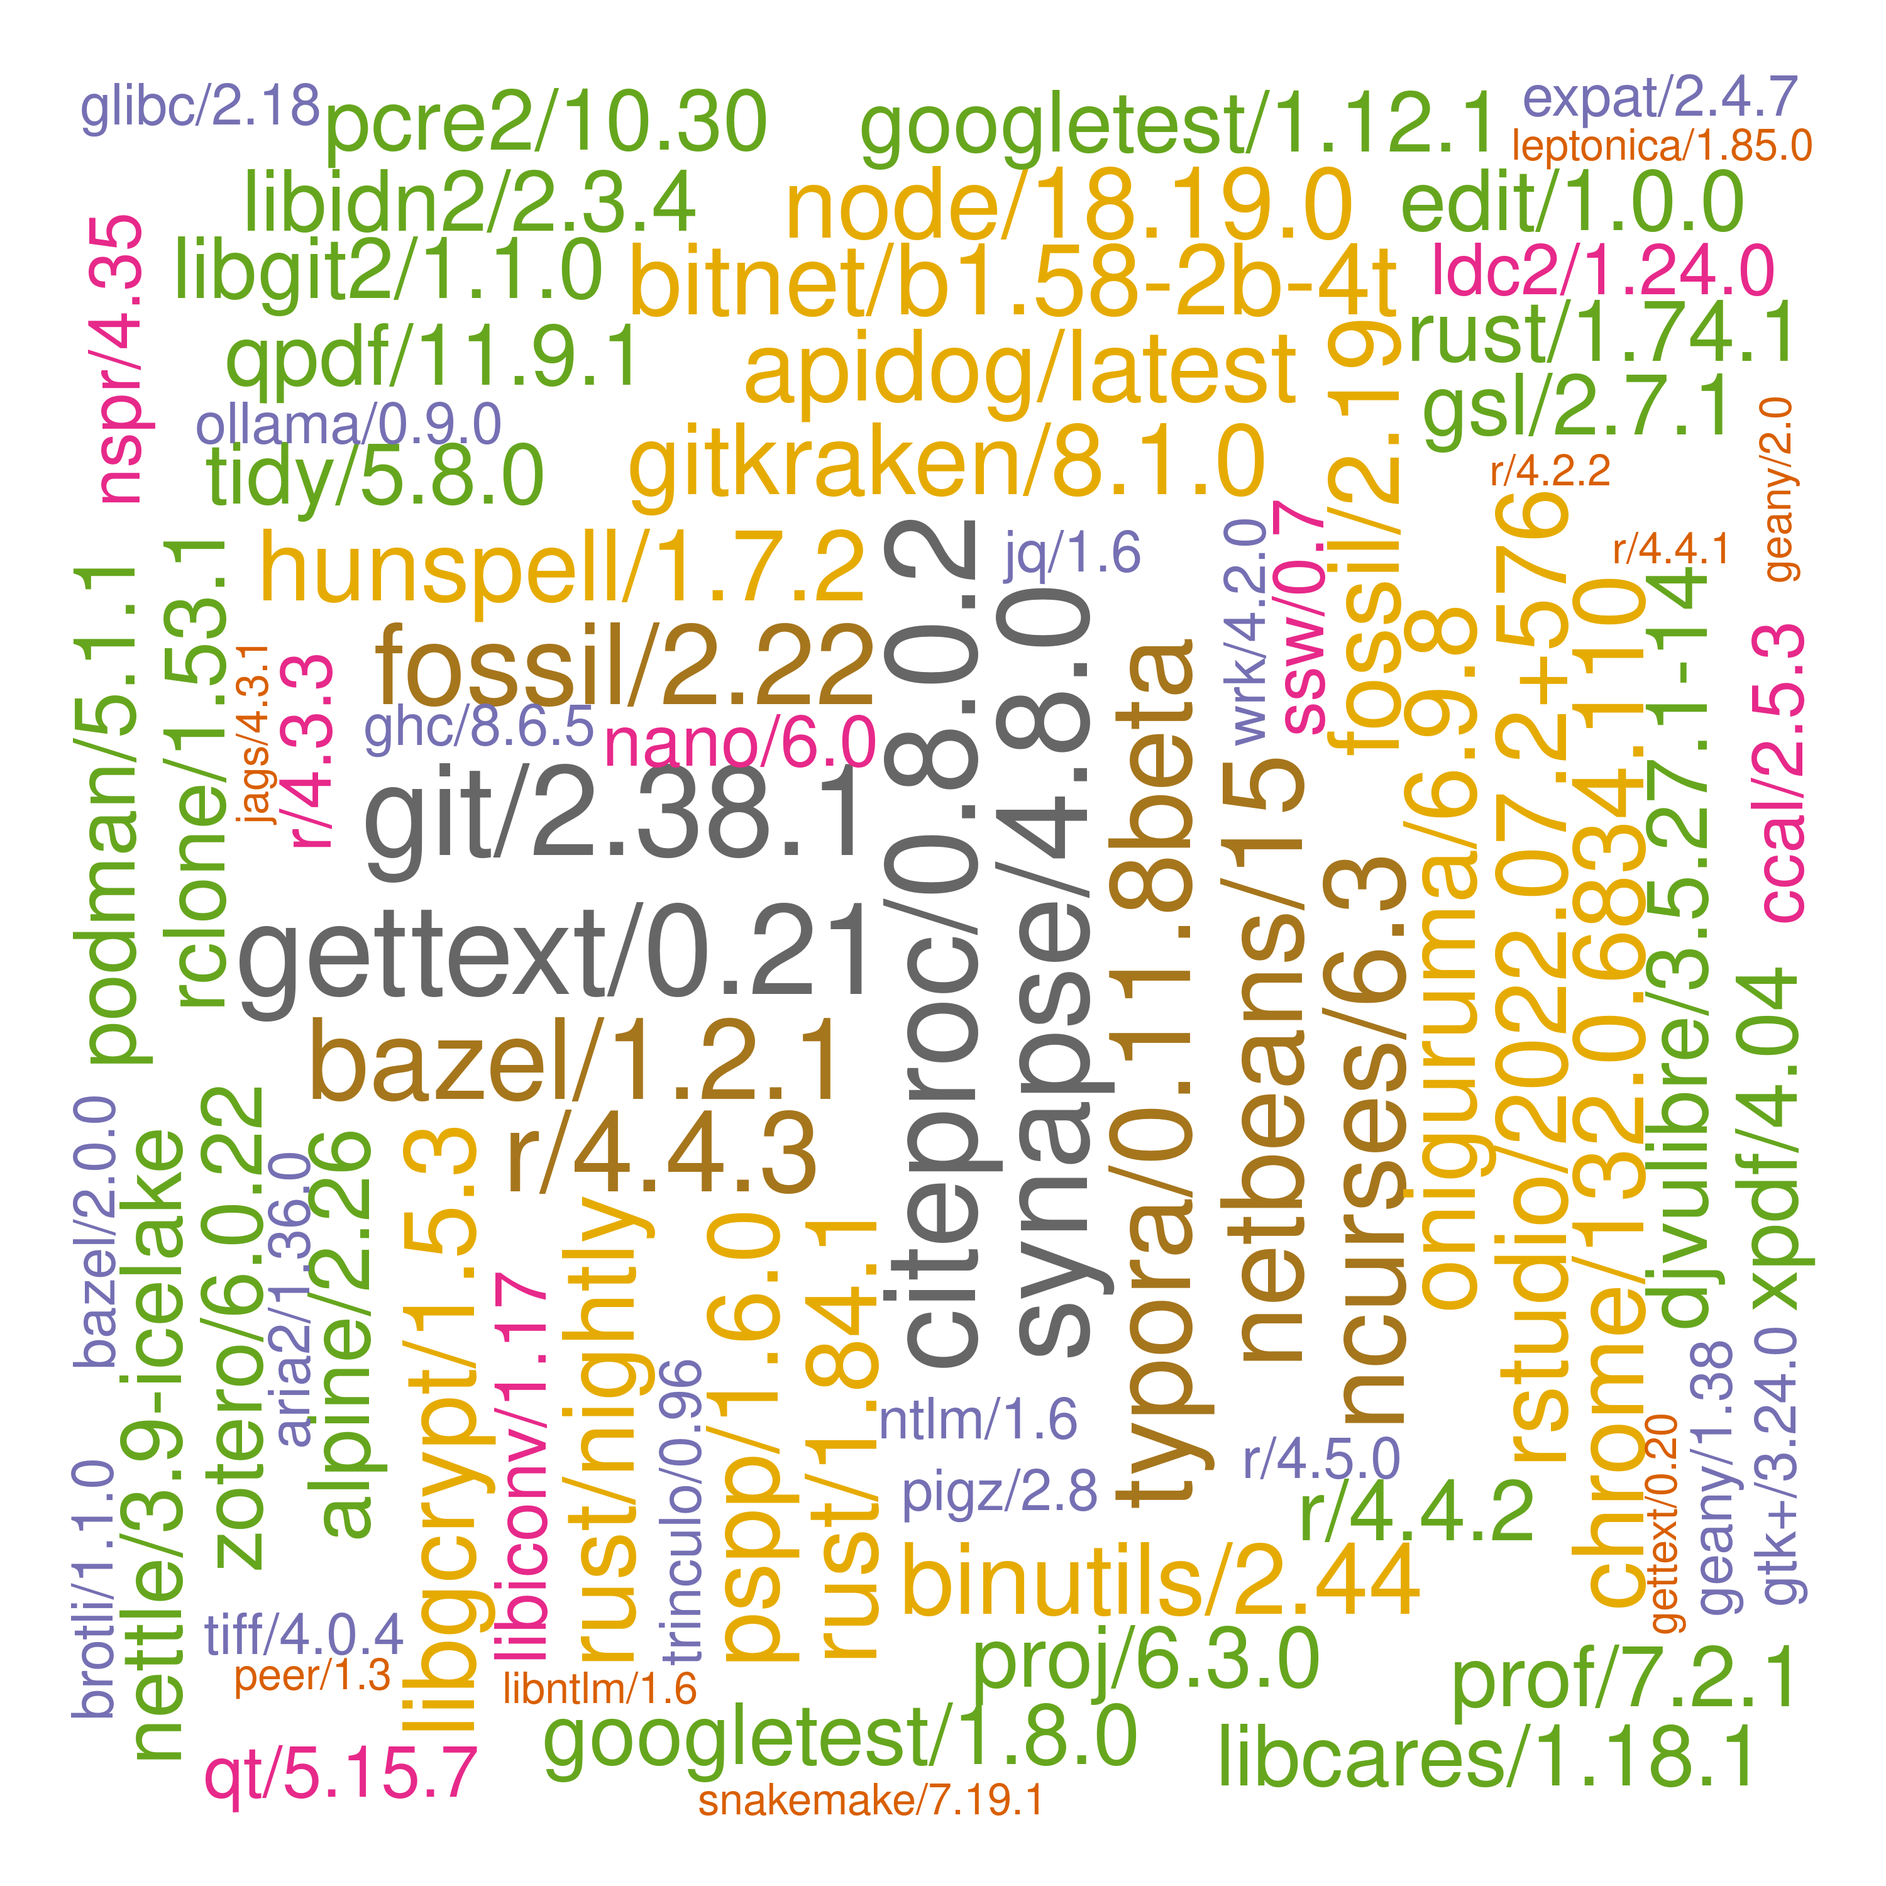
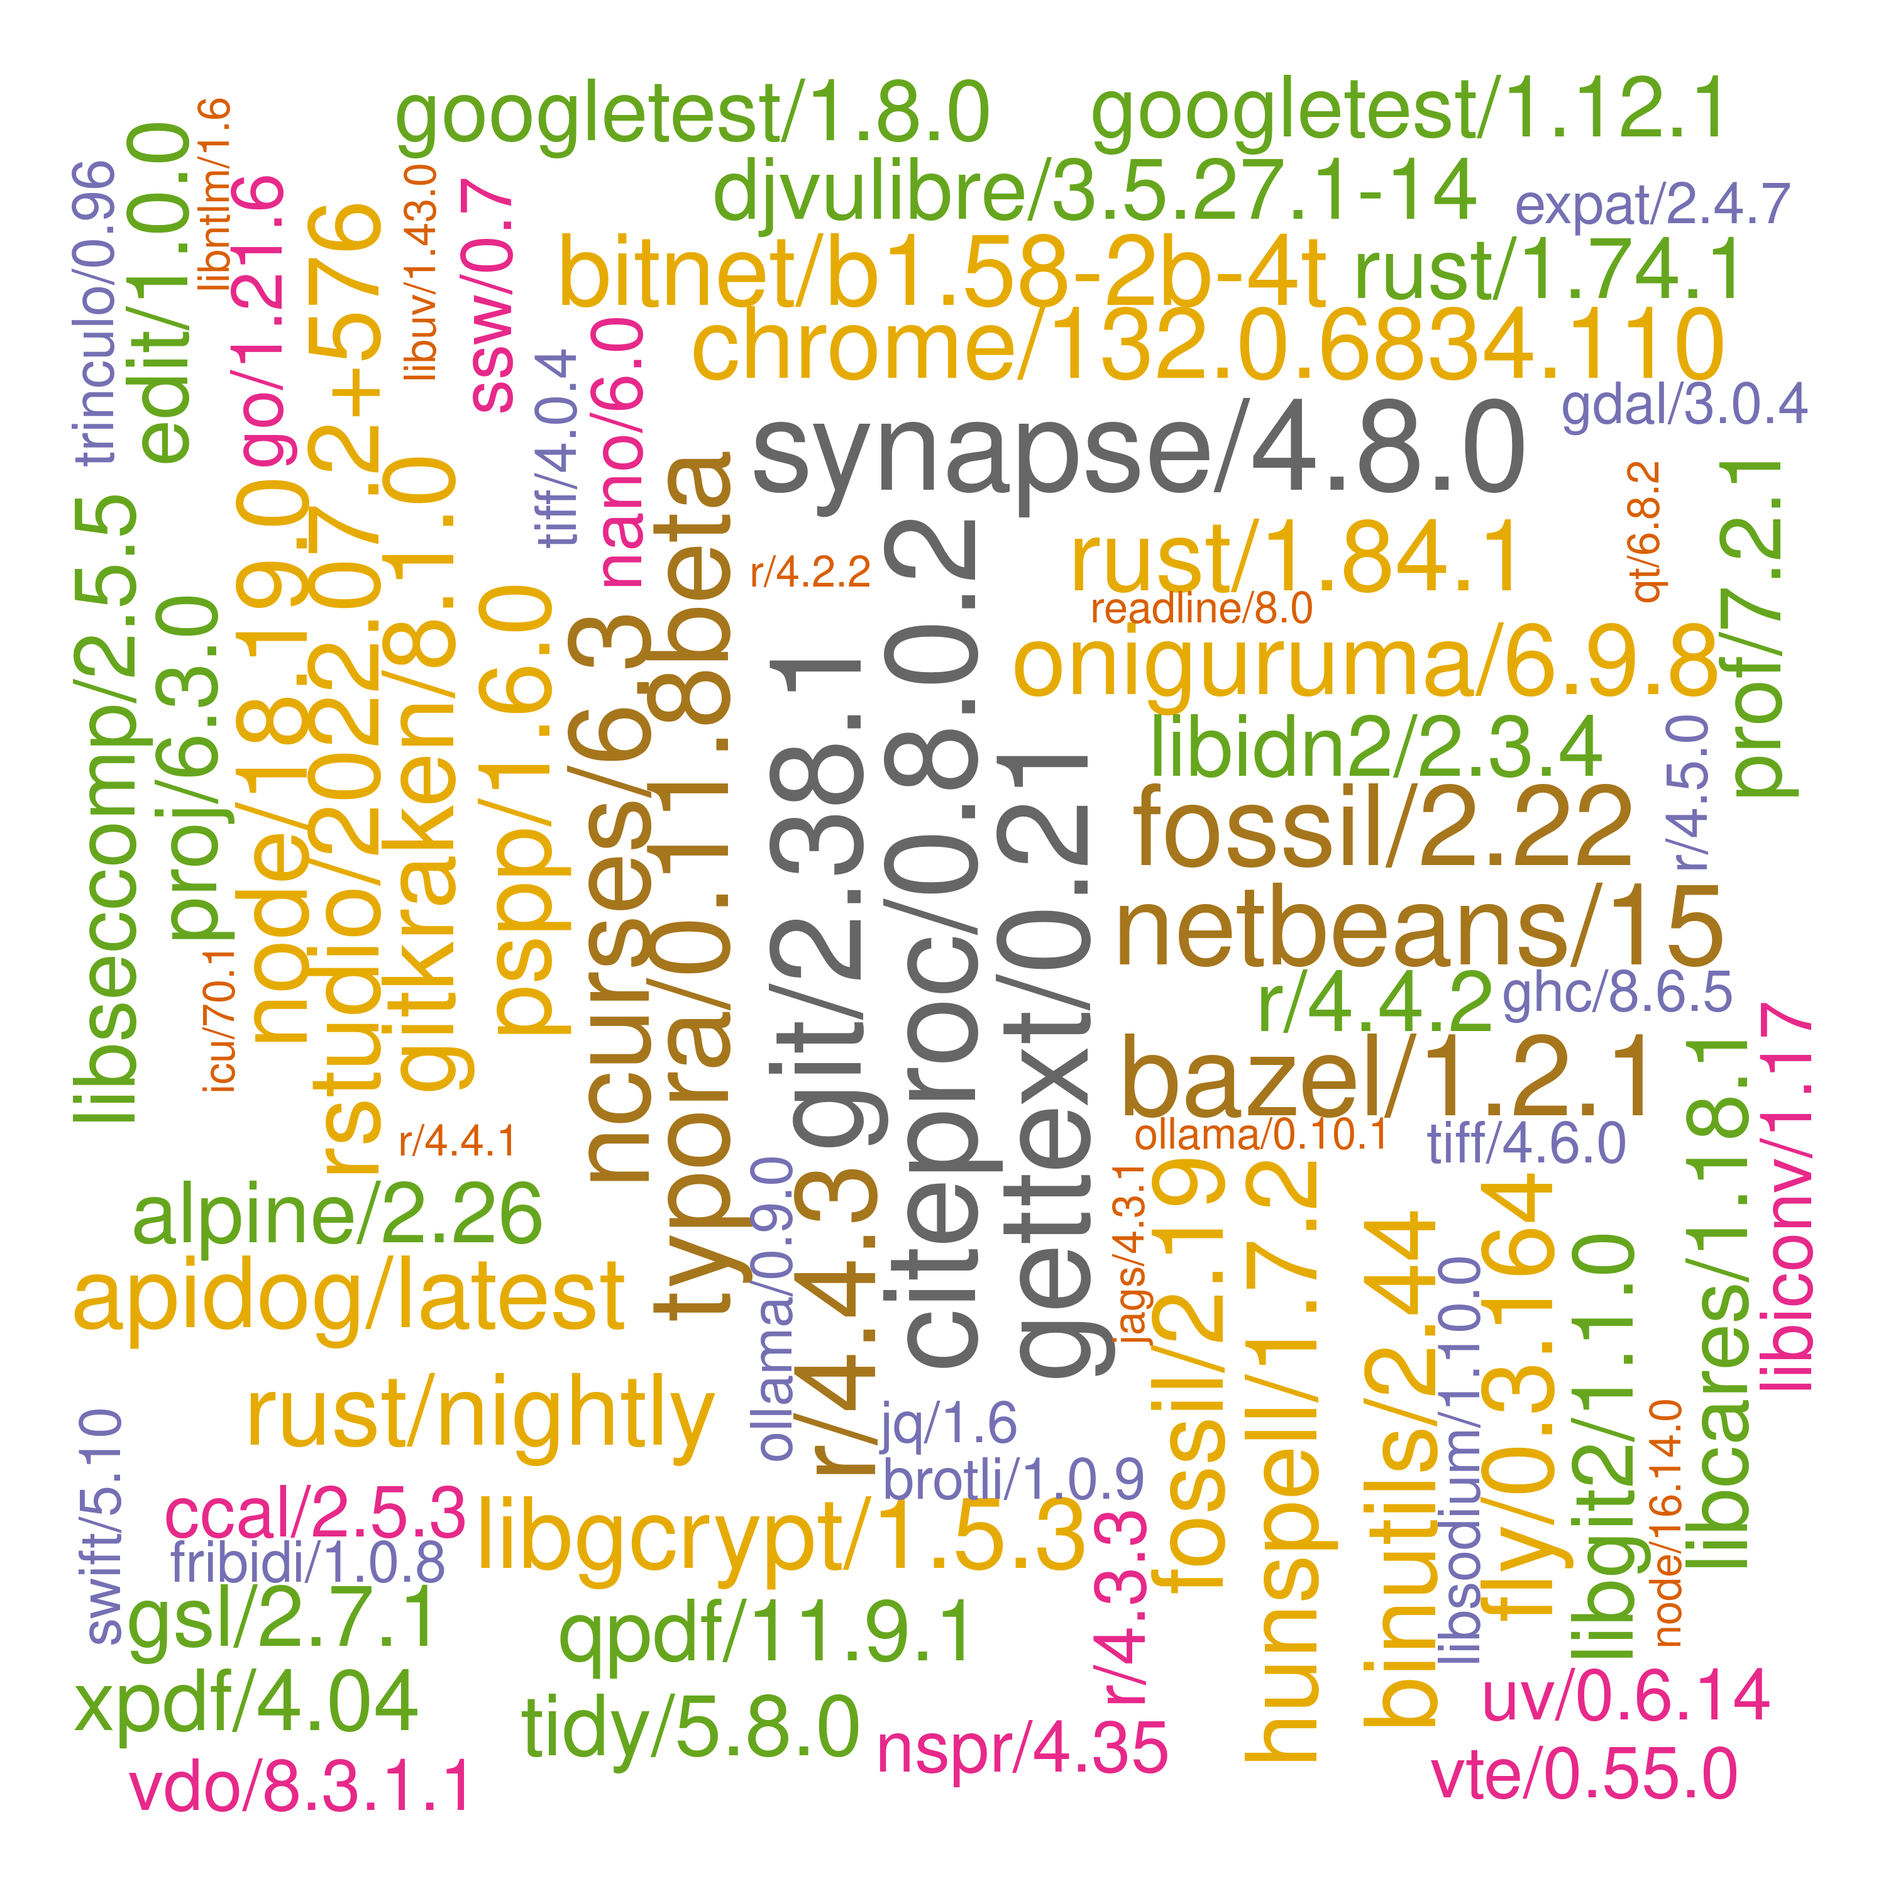
./

Changed region(s): [[0.031, 0.031, 0.961, 0.961]]

diff --git a/systems/ceuadmin.md b/systems/ceuadmin.md
@@ -34,69 +34,69 @@ The current list is as follows,
  [65] "edlib"                  "enchant"                "ensembl-vep"            "exiv2"
  [69] "exomeplus"              "expat"                  "FastQTL"                "fcGENE"
  [73] "ffmpeg"                 "fgwas"                  "findlib"                "finemap"
- [77] "firefox"                "FlashLFQ"               "fossil"                 "fpc"
- [81] "FragPipe"               "fraposa_pgsc"           "freesurfer"             "fribidi"
- [85] "GARFIELD"               "gatk"                   "gcta"                   "gdal"
- [89] "gdc"                    "geany"                  "GEM"                    "GEMMA"
- [93] "GENIE"                  "Genotype-Harmonizer"    "geos"                   "gettext"
- [97] "gh"                     "ghc"                    "ghostscript"            "git"
-[101] "git-extras"             "GitKraken"              "git-lfs"                "glib"
-[105] "glibc"                  "globusconnectpersonal"  "glpk"                   "gmp"
-[109] "gnutls"                 "go"                     "googletest"             "graphene"
-[113] "GraphicsMagick"         "GreenAlgorithms4HPC"    "gsl"                    "gtk+"
-[117] "gtksourceview"          "gtool"                  "hap.py"                 "hivex"
-[121] "hpg"                    "htslib"                 "hunspell"               "icu"
-[125] "ImageJ"                 "ImageMagick"            "impute"                 "inetutils"
-[129] "InstaNovo"              "IonQuant"               "JabRef"                 "JAGS"
-[133] "jasper"                 "jq"                     "json-c"                 "KentUtils"
-[137] "KING"                   "kojak"                  "krb5"                   "lapack"
-[141] "ldc2"                   "ldsc"                   "LDstore"                "LEMMA"
-[145] "leptonica"              "lib64"                  "libarchive"             "libcares"
-[149] "libgcrypt"              "libgeotiff"             "libgit2"                "libglvnd"
-[153] "libiconv"               "libidn2"                "libjpeg-turbo"          "libntlm"
-[157] "libpng"                 "libseccomp"             "libsodium"              "libssh"
-[161] "libssh2"                "libuv"                  "libxml2"                "libxslt"
-[165] "linux"                  "llama.cpp"              "locuszoom"              "LVM2"
-[169] "MAGENTA"                "magma"                  "Mango"                  "MaxQuant"
-[173] "Mega2"                  "metal"                  "MetaMorpheus"           "micromamba"
-[177] "Miniconda3"             "MONSTER"                "MORGAN"                 "MR-MEGA"
-[181] "msamanda"               "MsCAVIAR"               "MSFragger"              "MS-GF+"
-[185] "msms"                   "MUMmer"                 "nano"                   "nasm"
-[189] "ncbi-vdb"               "ncurses"                "netbeans"               "nettle"
-[193] "nextflow"               "nginx"                  "NLopt"                  "node"
-[197] "nspr"                   "ntlm"                   "ocaml"                  "ollama"
-[201] "oniguruma"              "opam"                   "openjdk"                "OpenMS"
-[205] "openssh"                "openssl"                "osca"                   "p7zip-zstd"
-[209] "PAINTOR"                "pandoc"                 "pandoc-citeproc"        "pango"
-[213] "parallel"               "Pascal"                 "patchelf"               "pcre2"
-[217] "pdf2djvu"               "pdfjam"                 "peer"                   "Perseus"
-[221] "pgsc_calc"              "PGS-CSx"                "phenoscanner"           "PhySO"
-[225] "picard"                 "pigz"                   "pkg-config"             "plink"
-[229] "plink-bgi"              "plinkseq"               "podman"                 "PoGo"
-[233] "polyphen"               "poppler"                "popt"                   "proj"
-[237] "PRSice"                 "pspp"                   "pulsar"                 "PWCoCo"
-[241] "pwiz"                   "qctool"                 "qemu"                   "qpdf"
-[245] "qt"                     "qtcreator"              "QTLtools"               "quarto"
-[249] "quicktest"              "R"                      "raremetal"              "rclone"
-[253] "readline"               "regenie"                "regtools"               "RHHsoftware"
-[257] "RSEM"                   "rst2pdf"                "rstudio"                "rtg-tools"
-[261] "rtmpdump"               "ruby"                   "rust"                   "sage"
-[265] "samtools"               "Scala"                  "scGPT"                  "seqkit"
-[269] "SEQPower"               "shapeit"                "singularity"            "SMR"
-[273] "snakemake"              "sniffles"               "SNP2HLA"                "snptest"
-[277] "spread-sheet-widget"    "spyder"                 "sqlite"                 "sra-tools"
-[281] "sshpass"                "ssw"                    "STAR"                   "stata"
-[285] "SurvivalAnalysis"       "SurvivalKit"            "SuSiEx"                 "SVanalyzer"
-[289] "Swift"                  "SYMPHONY"               "Synapse"                "tabix"
-[293] "tandem"                 "tatami"                 "tesseract"              "texinfo"
-[297] "ThermoRawFileParser"    "ThermoRawFileParserGUI" "thunderbird"            "tidy"
-[301] "tiff"                   "trinculo"               "trousers"               "truvari"
-[305] "Typora"                 "unbound"                "uv"                     "vala"
-[309] "VarScan"                "vcftools"               "vdo"                    "VEGAS2"
-[313] "verifyBamID"            "VirtualBox"             "VSCode"                 "VSCodium"
-[317] "vte"                    "Windsurf"               "wine"                   "wrk"
-[321] "xpdf"                   "yaml-cpp"               "Zettlr"                 "Zotero"
-[325] "zstd"
+ [77] "firefox"                "FlashLFQ"               "fly"                    "fossil"
+ [81] "fpc"                    "FragPipe"               "fraposa_pgsc"           "freesurfer"
+ [85] "fribidi"                "GARFIELD"               "gatk"                   "gcta"
+ [89] "gdal"                   "gdc"                    "geany"                  "GEM"
+ [93] "GEMMA"                  "GENIE"                  "Genotype-Harmonizer"    "geos"
+ [97] "gettext"                "gh"                     "ghc"                    "ghostscript"
+[101] "git"                    "git-extras"             "GitKraken"              "git-lfs"
+[105] "glib"                   "glibc"                  "globusconnectpersonal"  "glpk"
+[109] "gmp"                    "gnutls"                 "go"                     "googletest"
+[113] "graphene"               "GraphicsMagick"         "GreenAlgorithms4HPC"    "gsl"
+[117] "gtk+"                   "gtksourceview"          "gtool"                  "hap.py"
+[121] "hivex"                  "hpg"                    "htslib"                 "hunspell"
+[125] "icu"                    "ImageJ"                 "ImageMagick"            "impute"
+[129] "inetutils"              "InstaNovo"              "IonQuant"               "JabRef"
+[133] "JAGS"                   "jasper"                 "jq"                     "json-c"
+[137] "KentUtils"              "KING"                   "kojak"                  "krb5"
+[141] "lapack"                 "ldc2"                   "ldsc"                   "LDstore"
+[145] "LEMMA"                  "leptonica"              "lib64"                  "libarchive"
+[149] "libcares"               "libgcrypt"              "libgeotiff"             "libgit2"
+[153] "libglvnd"               "libiconv"               "libidn2"                "libjpeg-turbo"
+[157] "libntlm"                "libpng"                 "libseccomp"             "libsodium"
+[161] "libssh"                 "libssh2"                "libuv"                  "libxml2"
+[165] "libxslt"                "linux"                  "llama.cpp"              "locuszoom"
+[169] "LVM2"                   "MAGENTA"                "magma"                  "Mango"
+[173] "MaxQuant"               "Mega2"                  "metal"                  "MetaMorpheus"
+[177] "micromamba"             "Miniconda3"             "MONSTER"                "MORGAN"
+[181] "MR-MEGA"                "msamanda"               "MsCAVIAR"               "MSFragger"
+[185] "MS-GF+"                 "msms"                   "MUMmer"                 "nano"
+[189] "nasm"                   "ncbi-vdb"               "ncurses"                "netbeans"
+[193] "nettle"                 "nextflow"               "nginx"                  "NLopt"
+[197] "node"                   "nspr"                   "ntlm"                   "ocaml"
+[201] "ollama"                 "oniguruma"              "opam"                   "openjdk"
+[205] "OpenMS"                 "openssh"                "openssl"                "osca"
+[209] "p7zip-zstd"             "PAINTOR"                "pandoc"                 "pandoc-citeproc"
+[213] "pango"                  "parallel"               "Pascal"                 "patchelf"
+[217] "pcre2"                  "pdf2djvu"               "pdfjam"                 "peer"
+[221] "Perseus"                "pgsc_calc"              "PGS-CSx"                "phenoscanner"
+[225] "PhySO"                  "picard"                 "pigz"                   "pkg-config"
+[229] "plink"                  "plink-bgi"              "plinkseq"               "podman"
+[233] "PoGo"                   "polyphen"               "poppler"                "popt"
+[237] "proj"                   "PRSice"                 "pspp"                   "pulsar"
+[241] "PWCoCo"                 "pwiz"                   "qctool"                 "qemu"
+[245] "qpdf"                   "qt"                     "qtcreator"              "QTLtools"
+[249] "quarto"                 "quicktest"              "R"                      "raremetal"
+[253] "rclone"                 "readline"               "regenie"                "regtools"
+[257] "RHHsoftware"            "RSEM"                   "rst2pdf"                "rstudio"
+[261] "rtg-tools"              "rtmpdump"               "ruby"                   "rust"
+[265] "sage"                   "samtools"               "Scala"                  "scGPT"
+[269] "seqkit"                 "SEQPower"               "shapeit"                "singularity"
+[273] "SMR"                    "snakemake"              "sniffles"               "SNP2HLA"
+[277] "snptest"                "spread-sheet-widget"    "spyder"                 "sqlite"
+[281] "sra-tools"              "sshpass"                "ssw"                    "STAR"
+[285] "stata"                  "SurvivalAnalysis"       "SurvivalKit"            "SuSiEx"
+[289] "SVanalyzer"             "Swift"                  "SYMPHONY"               "Synapse"
+[293] "tabix"                  "tandem"                 "tatami"                 "tesseract"
+[297] "texinfo"                "ThermoRawFileParser"    "ThermoRawFileParserGUI" "thunderbird"
+[301] "tidy"                   "tiff"                   "trinculo"               "trousers"
+[305] "truvari"                "Typora"                 "unbound"                "uv"
+[309] "vala"                   "VarScan"                "vcftools"               "vdo"
+[313] "VEGAS2"                 "verifyBamID"            "VirtualBox"             "VSCode"
+[317] "VSCodium"               "vte"                    "Windsurf"               "wine"
+[321] "wrk"                    "xpdf"                   "yaml-cpp"               "Zettlr"
+[325] "Zotero"                 "zstd"
 ```
 
 These are wrapped up as :star::star::star: **[modules](https://modules.readthedocs.io/en/latest/index.html)** :star::star::star:.

diff --git a/systems/setup.md b/systems/setup.md
@@ -444,6 +444,7 @@ All entries are ordered chronologically.
 | ""          | rtg-tools/3.13                   | Genetics[^rtg]       |
 | 2025-08-01  | ollama/0.10.1                    | Generic              |
 | ""          | llama.cpp/b6059                  | Generic              |
+| ""          | fly/0.3.164                      | Generic[^fly]        |
 
 \* CEU or approved users only.
 
@@ -2818,3 +2819,24 @@ They are generated from script [setup.sh](setup.sh),
     ```
 
     which contains part of [`happy.sb`](files/happy.sb)[^happy] from above.
+
+[^fly]: **fly**
+
+    Web: <https://fly.io/>
+
+    This attempt for a user,
+
+    ```bash
+    cd ~/rsd/software
+    mkdir fly && cd fly
+    ln -s /rds/project/rds-4o5vpvAowP0/software/fly ~/.fly
+    curl -L https://fly.io/install.sh | sh
+    export FLYCTL_INSTALL=/rds/project/rds-4o5vpvAowP0/software/fly
+    export PATH="$FLYCTL_INSTALL/bin:$PATH"
+    flyctl --help
+    flyctl version
+    fly volumes create coffeeshop_vol --size 1
+    fly deploy
+    ```
+
+    The last two lines are per <https://jinghuazhao@github.com/pavelanni/pythonicadventure-code>.
